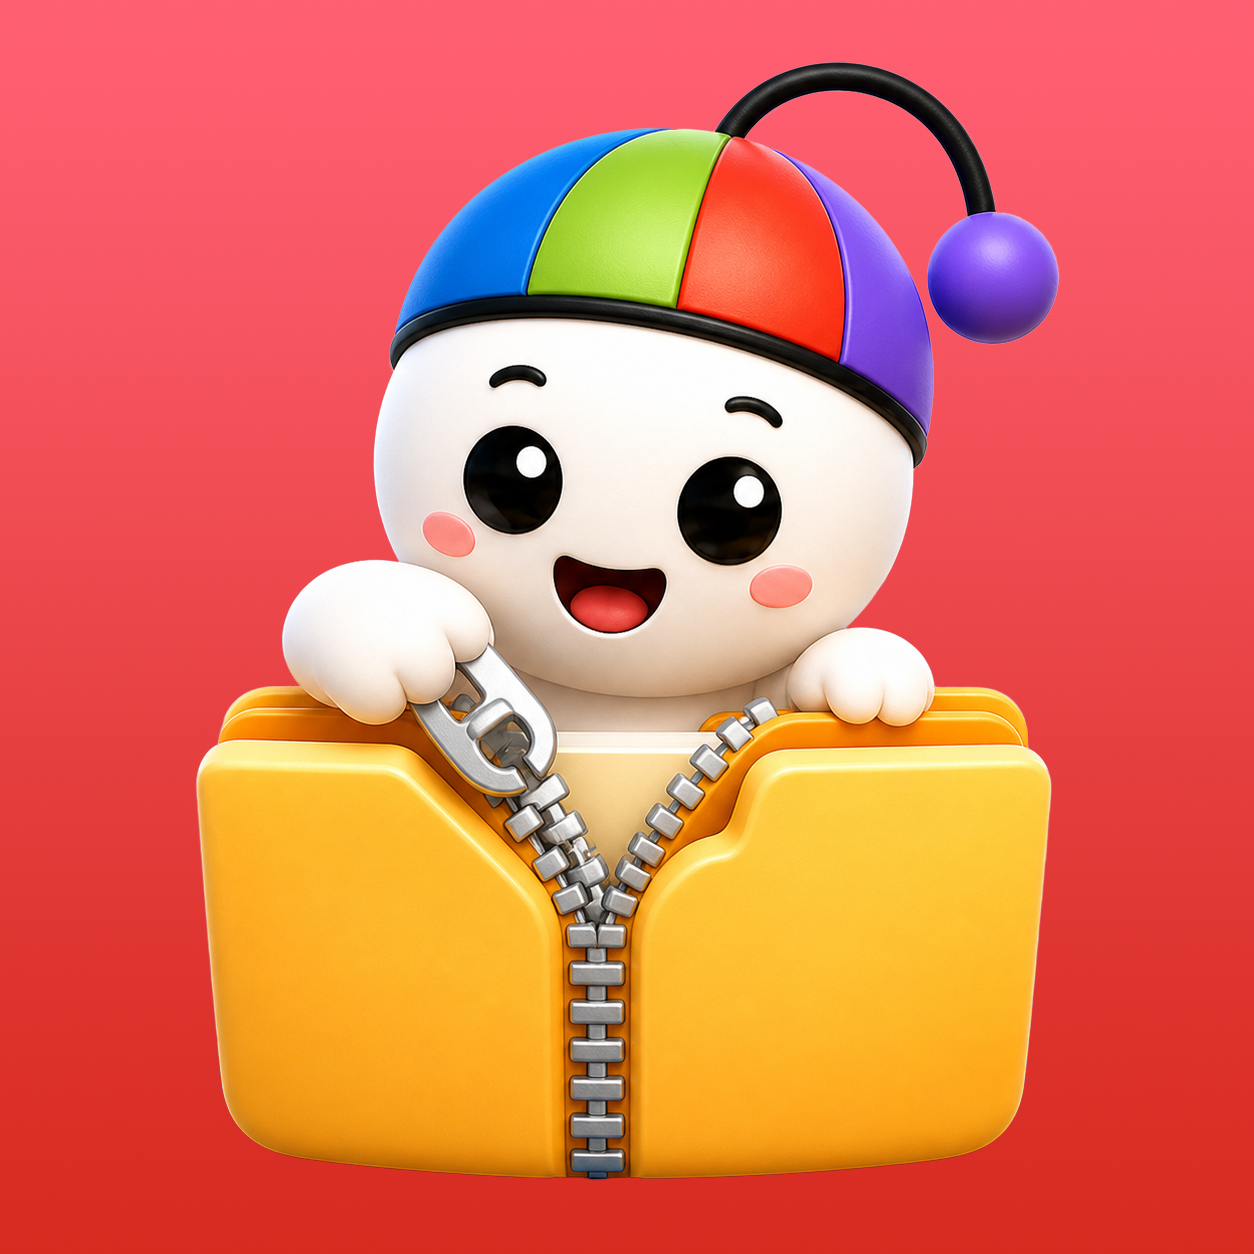
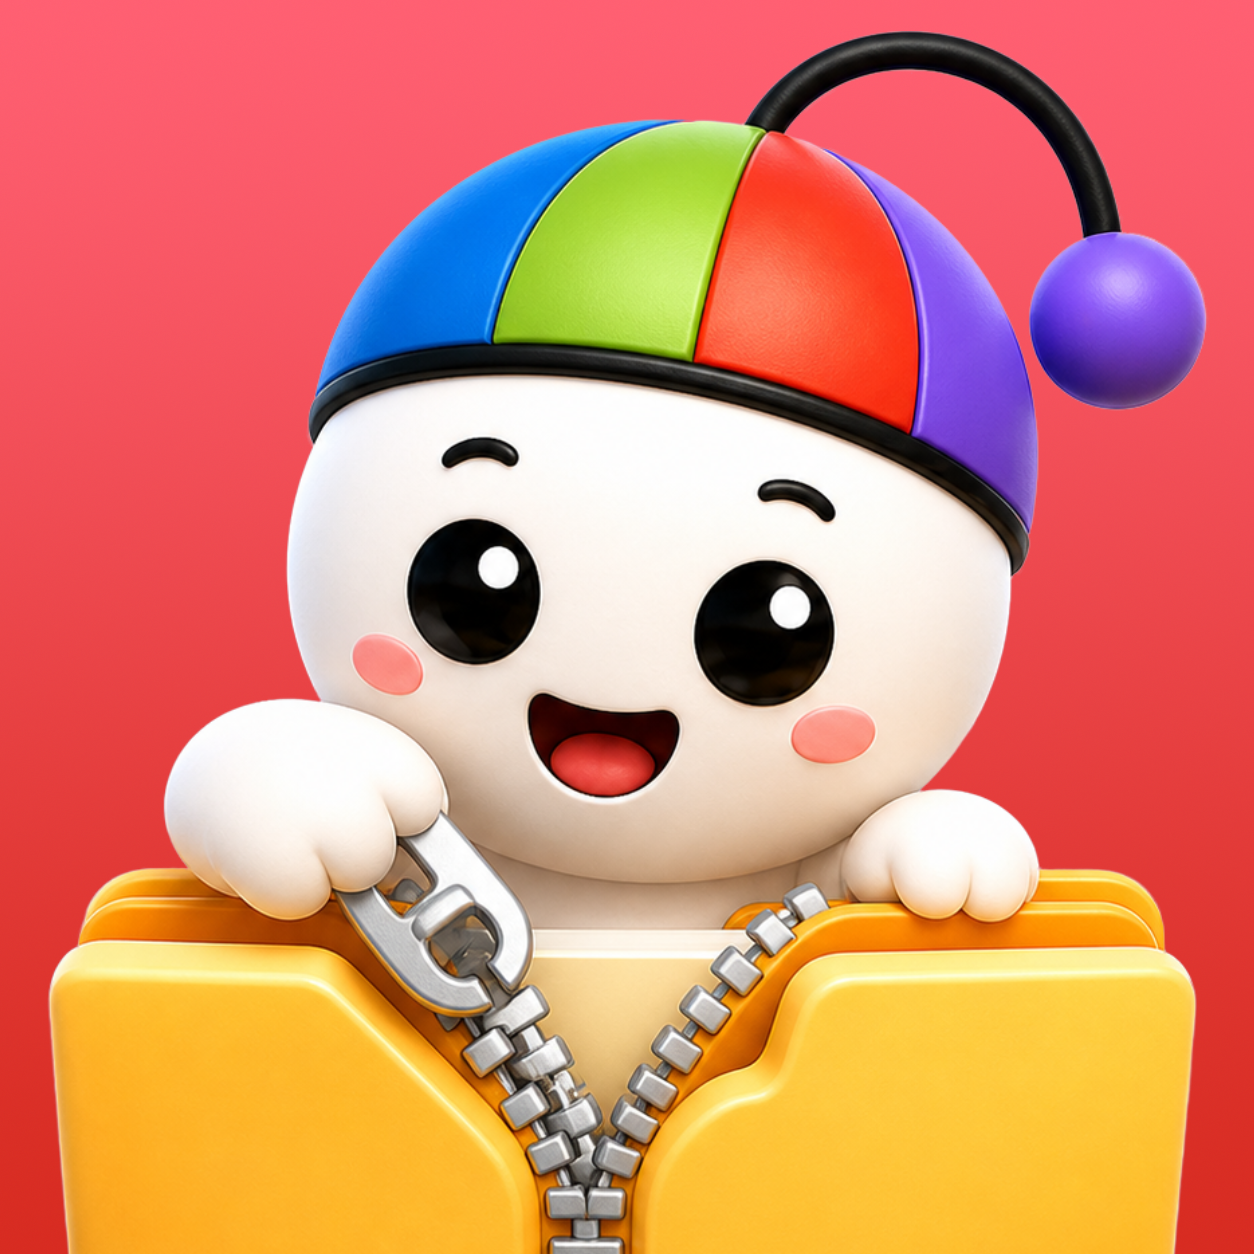
Fix mac window reopen crash

diff --git a/mac/NewnZipMac/Sources/NewnZipMacApp/AppDelegate.swift b/mac/NewnZipMac/Sources/NewnZipMacApp/AppDelegate.swift
@@ -2,7 +2,7 @@ import AppKit
 import SwiftUI
 
 @MainActor
-final class AppDelegate: NSObject, NSApplicationDelegate {
+final class AppDelegate: NSObject, NSApplicationDelegate, NSWindowDelegate {
     private var mainWindow: NSWindow?
     private var hudWindows: [NSWindow] = []
     private var dropOverlayController: DropOverlayController?
@@ -142,6 +142,8 @@ final class AppDelegate: NSObject, NSApplicationDelegate {
             defer: false
         )
         window.title = "newnZip"
+        window.isReleasedWhenClosed = false
+        window.delegate = self
         window.contentView = NSHostingView(rootView: ContentView())
         window.center()
         window.makeKeyAndOrderFront(nil)
@@ -157,6 +159,8 @@ final class AppDelegate: NSObject, NSApplicationDelegate {
             defer: false
         )
         window.title = "newnZip"
+        window.isReleasedWhenClosed = false
+        window.delegate = self
         window.contentView = NSHostingView(
             rootView: HUDProgressView(command: command, terminatesWhenDone: terminatesWhenDone)
         )
@@ -164,6 +168,17 @@ final class AppDelegate: NSObject, NSApplicationDelegate {
         window.makeKeyAndOrderFront(nil)
         NSApp.activate(ignoringOtherApps: true)
         hudWindows.append(window)
+    }
+
+    func windowWillClose(_ notification: Notification) {
+        guard let window = notification.object as? NSWindow else {
+            return
+        }
+
+        if window === mainWindow {
+            mainWindow = nil
+        }
+        hudWindows.removeAll { $0 === window }
     }
 
     private func startDropOverlay() {